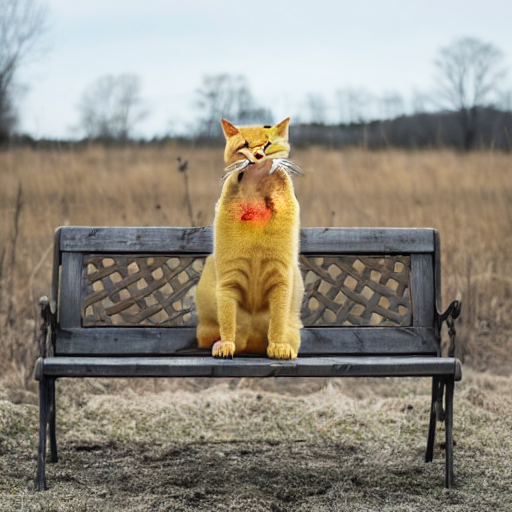
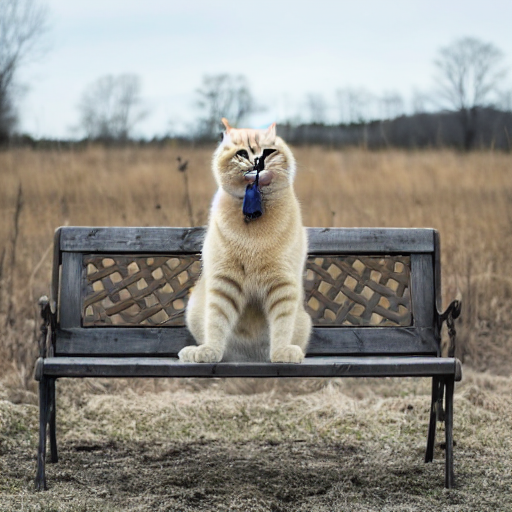
Add random seed to image generator, wip

Changed region(s): [[0.3125, 0.1875, 0.625, 0.9375], [0.875, 0.75, 0.9062, 0.7812], [0.625, 0.6875, 0.6562, 0.7188]]

diff --git a/paint_with_words/paint_with_words_inpaint.py b/paint_with_words/paint_with_words_inpaint.py
@@ -77,7 +77,7 @@ def pww_load_tools(
 
 def inj_forward(self, hidden_states, context=None, mask=None):
 
-    is_dict_format = True
+    is_dict_format = False
     if context is not None:
         try:
             context_tensor = context["CONTEXT_TENSOR"]
@@ -229,13 +229,10 @@ def prepare_mask_latents(
     # and half precision
     mask = F.interpolate(mask, size=(height // 8, width // 8))
     mask = mask.to(device=device, dtype=dtype)
-
     masked_image = masked_image.to(device=device, dtype=dtype)
-    # generator = generator.to(device=device)
 
     # encode the mask image into latents space so we can concatenate it to the latents
-    # masked_image_latents = vae.encode(masked_image).latent_dist.sample(generator=generator)
-    masked_image_latents = vae.encode(masked_image).latent_dist.sample()
+    masked_image_latents = vae.encode(masked_image).latent_dist.sample(generator=generator)
     masked_image_latents = 0.18215 * masked_image_latents
 
     # duplicate mask and masked_image_latents for each generation per prompt, using mps friendly method
@@ -343,10 +340,12 @@ def paint_with_words_inpaint(
     latent_timestep = timesteps[:1]
 
     # Latent
+    generator = torch.Generator(device=device)
+    generator.manual_seed(seed)
     init_image = preprocess(init_image)
     image = init_image.to(device=device)
     init_latent_dist = vae.encode(image).latent_dist
-    init_latents = init_latent_dist.sample()
+    init_latents = init_latent_dist.sample(generator=generator)
     init_latents = 0.18215 * init_latents
     noise = torch.randn(init_latents.shape).to(device)
     init_latents = scheduler.add_noise(init_latents, noise, latent_timestep)
@@ -362,7 +361,7 @@ def paint_with_words_inpaint(
         width,
         cond_embeddings.dtype,
         device,
-        generator=torch.manual_seed(seed),
+        generator=generator,
         do_classifier_free_guidance=False,
     )
 

diff --git a/runner_inpaint.py b/runner_inpaint.py
@@ -3,16 +3,27 @@ import math
 import dotenv
 from PIL import Image
 
-from paint_with_words import paint_with_words, paint_with_words_inpaint
+from paint_with_words import paint_with_words_inpaint
 
 
-EXAMPLE_SETTING_5 = {
+EXAMPLE_SETTING_1 = {
     "color_context": {
         (51, 193, 217): "yellow cat,2.0,-1",
     },
     "color_map_img_path": "contents/inpaint_examples/dog_2.png",
-    "input_prompt": "Face of a yellow cat, high resolution, sitting on a park bench",
+    "input_prompt": "Face of a yellow cat, high resolution, on a park bench",
     "output_img_path": "contents/inpaint_examples/cat_output.png",
+    "img_path": "contents/inpaint_examples/dog_on_bench.png",
+    "mask_path": "contents/inpaint_examples/dog_mask.png",
+}
+
+EXAMPLE_SETTING_2 = {
+    "color_context": {
+        (51, 193, 217): "bird,2.0,-1",
+    },
+    "color_map_img_path": "contents/inpaint_examples/dog_2.png",
+    "input_prompt": "a bird, high resolution, on a park bench",
+    "output_img_path": "contents/inpaint_examples/bird_output.png",
     "img_path": "contents/inpaint_examples/dog_on_bench.png",
     "mask_path": "contents/inpaint_examples/dog_mask.png",
 }
@@ -22,7 +33,7 @@ if __name__ == "__main__":
 
     dotenv.load_dotenv()
     
-    settings = EXAMPLE_SETTING_5
+    settings = EXAMPLE_SETTING_1
 
     color_map_image = Image.open(settings["color_map_img_path"]).convert("RGB")
     color_context = settings["color_context"]
@@ -38,8 +49,9 @@ if __name__ == "__main__":
         num_inference_steps=30,
         guidance_scale=7.5,
         device="cuda:0",
+        seed=0,
         weight_function=lambda w, sigma, qk: 0.4 * w * math.log(1 + sigma) * qk.max(),
-        strength= 1.0,
+        strength= 0.5,
     )
 
     img.save(settings["output_img_path"])

diff --git a/runner.py b/runner.py
@@ -3,7 +3,7 @@ import math
 import dotenv
 from PIL import Image
 
-from paint_with_words import paint_with_words, paint_with_words_inpaint
+from paint_with_words import paint_with_words
 
 
 EXAMPLE_SETTING_1 = {
